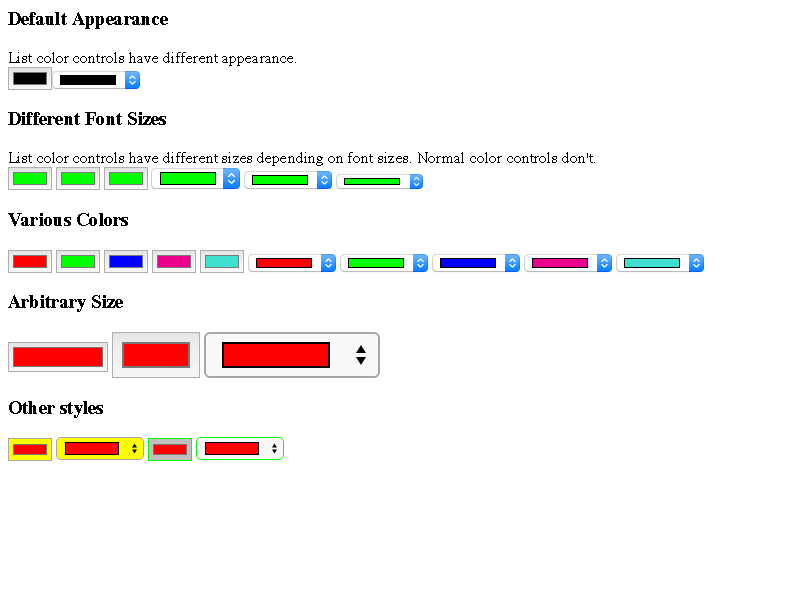
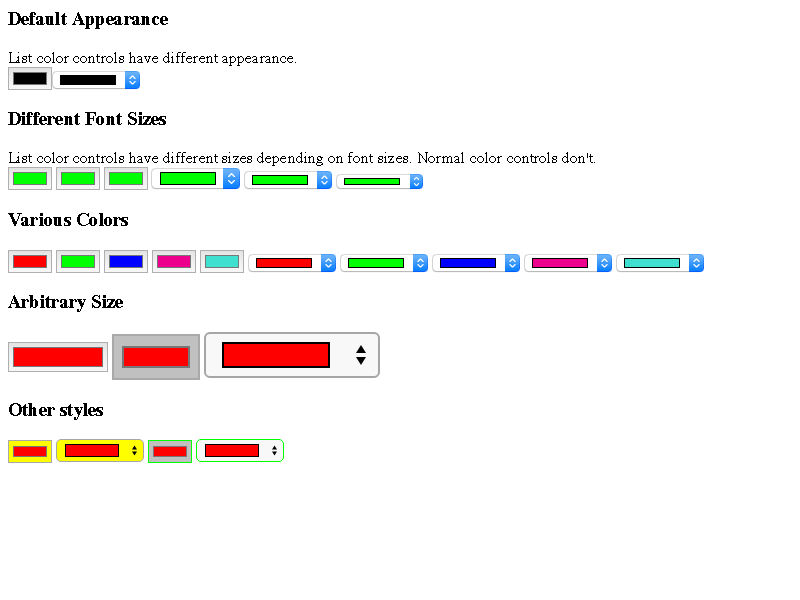
Mac: Fallback to CSS rendering if buttons has non-100% scale.
The native button rendering is strange on Yosemite.

BUG=525884

Review URL: https://codereview.chromium.org/1311533004

git-svn-id: svn://svn.chromium.org/blink/trunk@201371 bbb929c8-8fbe-4397-9dbb-9b2b20218538

Changed region(s): [[0.0, 0.72, 0.3438, 0.78], [0.125, 0.54, 0.25, 0.66], [0.0, 0.66, 0.125, 0.69]]

diff --git a/Source/core/layout/LayoutThemeMac.mm b/Source/core/layout/LayoutThemeMac.mm
@@ -458,10 +458,18 @@ bool LayoutThemeMac::isControlStyled(const ComputedStyle& style) const
     // like the control is styled.
     if (style.appearance() == MenulistPart && style.effectiveZoom() != 1.0f)
         return true;
-    // FIXME: NSSearchFieldCell doesn't work well when scaled.
-    if (style.appearance() == SearchFieldPart && style.effectiveZoom() != 1)
-        return true;
-
+    // Some other cells don't work well when scaled.
+    if (style.effectiveZoom() != 1) {
+        switch (style.appearance()) {
+        case ButtonPart:
+        case PushButtonPart:
+        case SearchFieldPart:
+        case SquareButtonPart:
+            return true;
+        default:
+            break;
+        }
+    }
     return LayoutTheme::isControlStyled(style);
 }
 
